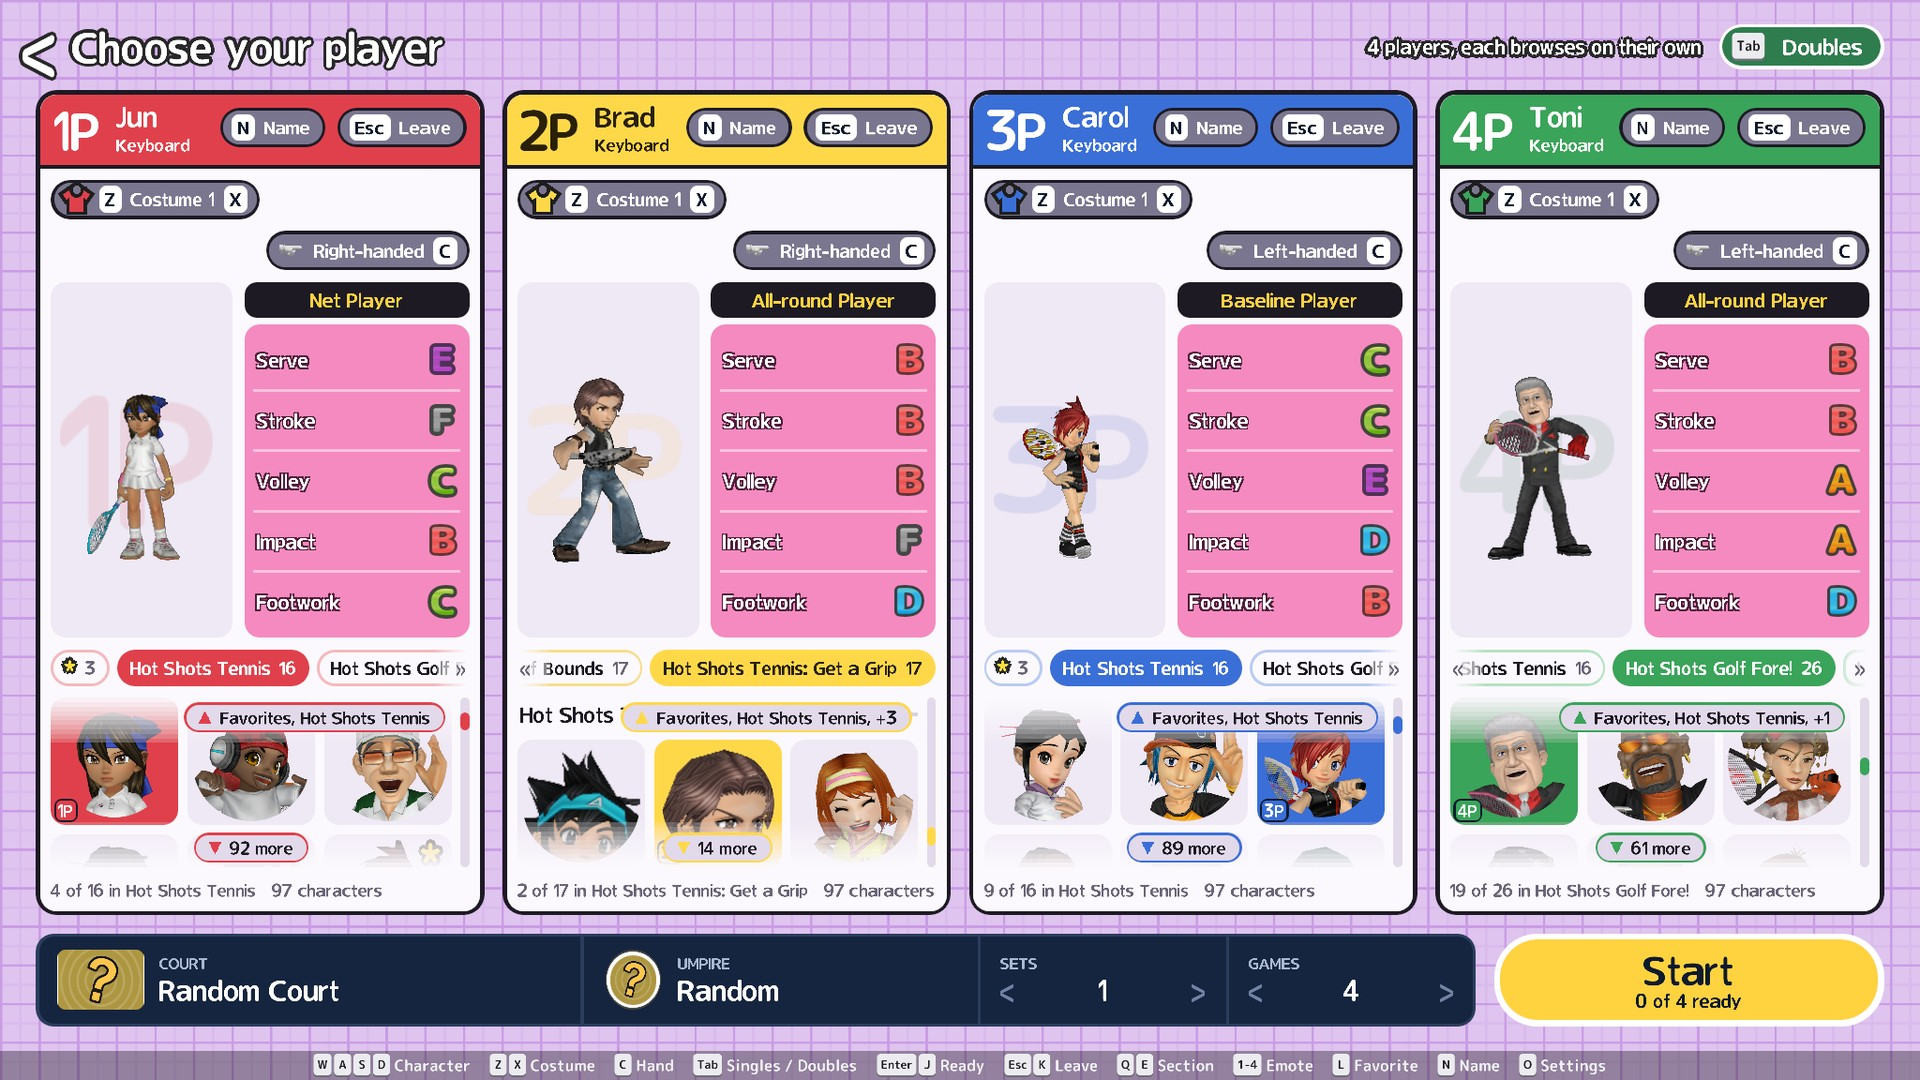
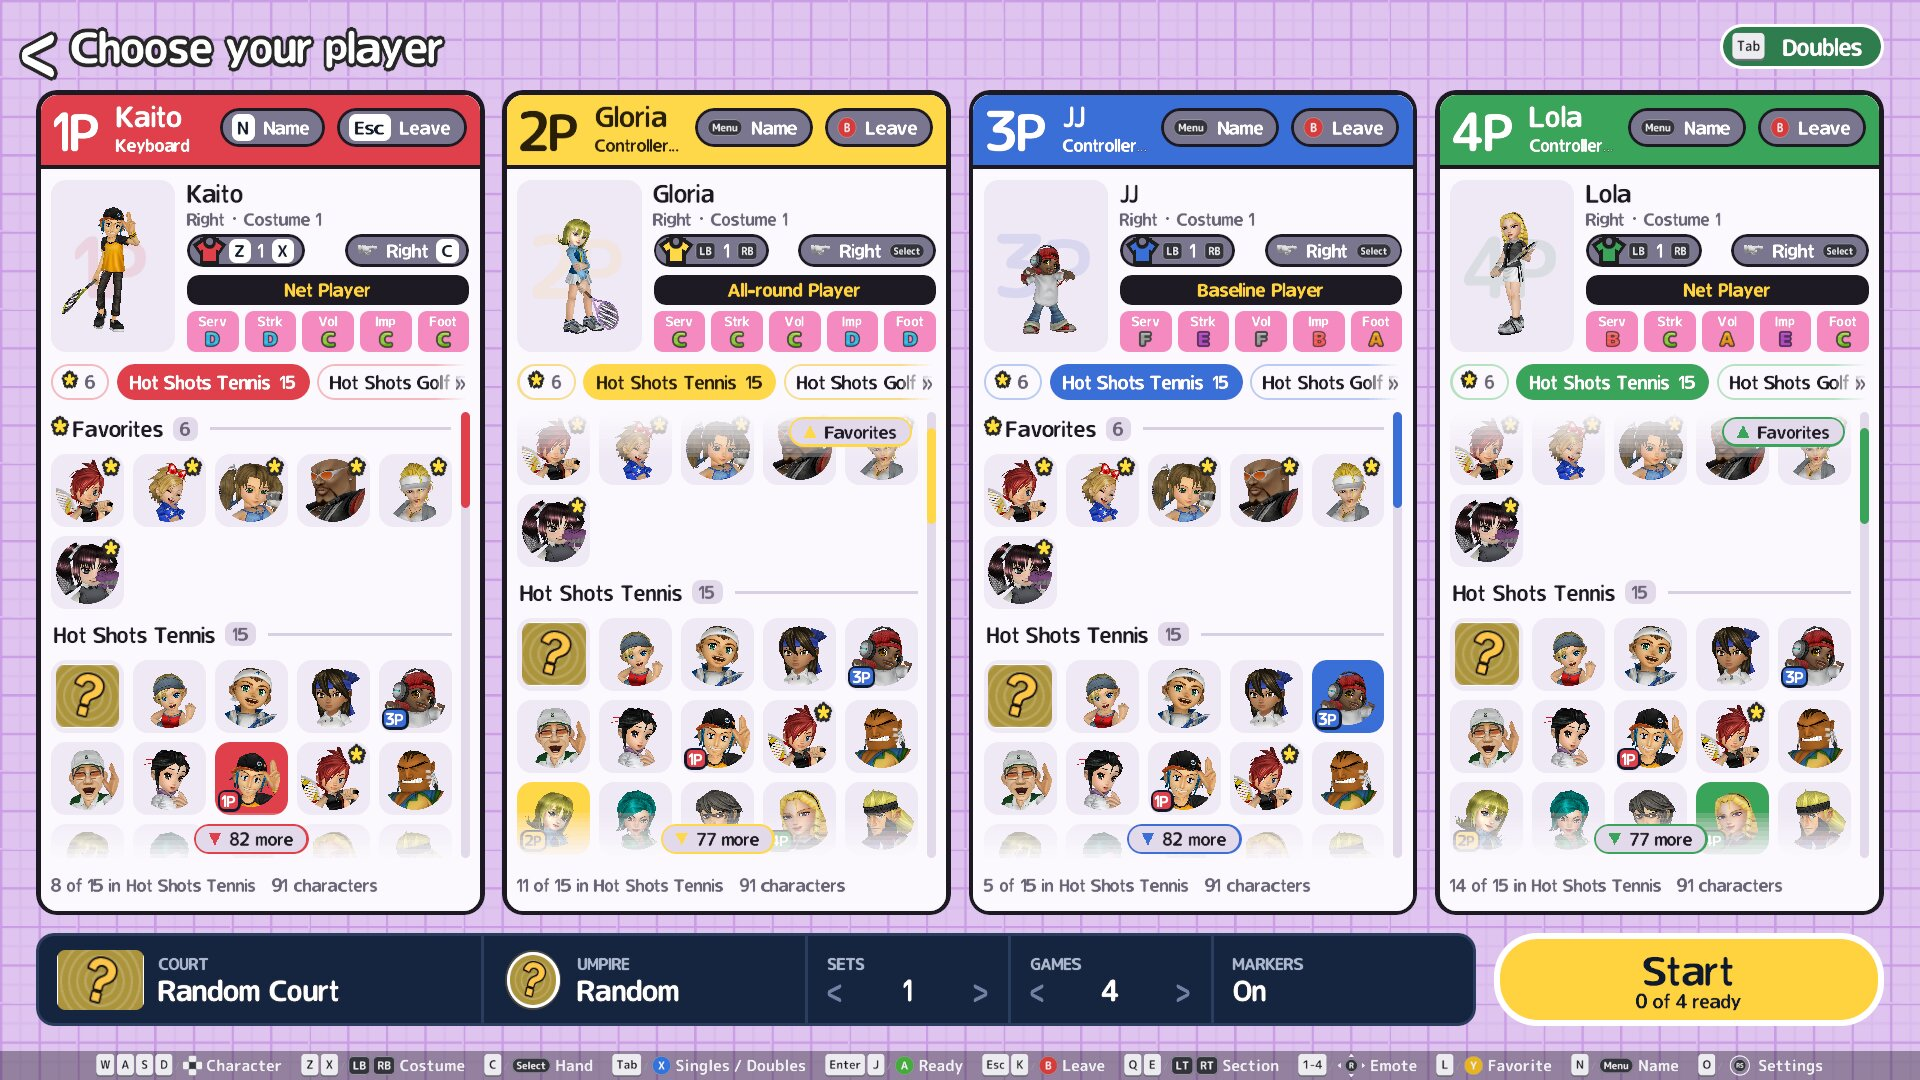
docs: screenshots retaken with the current menus (title, main, four-player select, courts, umpires, lobby, store) and match HUD (rally and serve shots with the HUD on)

diff --git a/research/journal/2026-10-20-m137-refresh-screenshots/README-FINAL.md b/research/journal/2026-10-20-m137-refresh-screenshots/README-FINAL.md
@@ -1,0 +1,38 @@
+# M137 — refresh the UI screenshots
+
+## What changed
+Retaken with the current build (v1.2.5, 0ccb3fb8), same file names so README and the site (`tools/web.sh` copies
+`docs/screenshots/*.jpg` to `web/shots/`) pick them up unchanged. 1920×1080, JPEG q85, metadata stripped.
+
+- Menus: `menu-main`, `menu-chars` (four players, one column each), `menu-courts` (mod courts), `menu-umpires` (mod
+  umpires), `menu-lobby` (online lobby with a computer player), `menu-browsemods` (the real store listing, with
+  thumbnails).
+- New: `menu-title.jpg`, the title/splash screen (Press Enter over the blurred court). README's table now opens the
+  menu rows with it; its last row pairs the store with `mod-amusement.jpg` (already in the folder, unused until now).
+- Match with the HUD on (M98's were HUD-off): `rally-grass` (doubles, grass: timing balloon, power-shot trail, mph),
+  `serve` (doubles, grass: score panel, team names, COM levels, sets/games), `rally-autumn` (singles, autumn: power
+  shot, balloon, mph).
+
+## How
+All files in `context/m137/`. `disc/` is a copy of the 2026-10-16 menu-shot folder (symlinks to the main checkout's
+disc, mods, store cache; its own `settings.txt`: upscaled textures + hst-hd pack, high shadows, 4× AA, menu size Auto)
+so the slot's low-quality `settings.txt` (menu size 50, render scale 67) isn't used.
+- `menu.sh OUT SCREEN AT`: one `HST_MENU` screen through `tools/shot.sh` at `HST_SIZE="1200 675"` (1920×1080).
+  Screens: `press`, `main`, `roster4`, `courts-mod`, `umpires-mod`, `lobby-bot`; the store is `main-mods` + Enter
+  (`HST_KEYS`), shot at 45 s so the listing and thumbnails are in. The character select needs ~30 s for every face
+  to be cut (earlier shots show empty cells).
+- `burst.sh DIR FROM TO STEP args`: one CPU-vs-CPU `--play` match, a frame a second; `r1` grass doubles (`--stage 5
+  --court 5 --chars 0,1`), `r2` autumn singles (`--stage 11 --court 11 --chars 2,3 --singles`). Picked by eye from
+  the contact sheets.
+
+## Not verified / not 1:1
+- Not compared to the original: these are our own menus and renderer (front end/rendering, no proof needed).
+- Not retaken: `hero`, `cast`, `celebrate-*`, `closeup-*`, `mod-castle`, `mod-character`, `mod-amusement`, `phone`.
+  They are HUD-off cutaway/celebration close-ups with no menu or HUD in them, so the task (menus and match HUD)
+  doesn't change them.
+- The match shots are CPU vs CPU, so the HUD shows COM markers/levels rather than 1P/2P.
+- `menu-lobby` is the `lobby-bot` sample screen (made-up peers "Sunny Day"/"ACE-42"), as before; no real online
+  session was opened.
+- The main menu's "New in the store" column doesn't show at the Auto menu size in 1920×1080 (it needs a wider
+  window); left as the game draws it.
+- The site was not opened in a browser; only the README table changed, and every path in it exists.

diff --git a/plan/TODO.md b/plan/TODO.md
@@ -19,7 +19,6 @@ index out of bounds: the len is 0 but the index is 0"
 - [ ] **B593** Mods browser footer to the top (user 2026-10-20): move the footer's row (Refresh/Download all words, pills, Upload, status) from the bottom to just under the kind tabs/characters strip at the top, still visually separate (its own rule/row), so it's reachable from the controller without scrolling past every tile; fix the cursor order to match (main_menu/mods_screen/grid.rs: footer, layout, Browse moves).
 - [ ] **M136** Mod downloads/uploads in progress shown on every menu screen (user 2026-10-20): a progress indicator in the upper middle of the screen (queue count, current item, for downloads and uploads alike) stays visible wherever you are in the menus; when the queue empties, a prompt offers to restart so the new mods load.
 - [ ] **B588** Online lobby asks to download mods both players already have (user 2026-10-20): joining a lobby prompted a download though both sides had the mod, and the downloaded/has-it icon never showed even after downloading (mods_online.rs, handshake.rs). Assumed: the have-check compares the wrong key (version/hash/id).
-- [ ] **M137** Refresh the UI screenshots (user 2026-10-20): retake docs/screenshots/ (README + website) with the current menus and match HUD.
 - [ ] **B589** Random characters still have no baked mod images (user 2026-10-20, after B571): a modded character picked by Random shows no baked roster/face image. Bake it the same way store-downloaded ones are.
 - [ ] **B590** Mobile web app: auto aspect still stretches under the Dynamic Island (user 2026-10-20): in landscape the picture runs past the notch/island. Honour env(safe-area-inset-*) in the web shell (web.rs / the page's viewport-fit) so the game area stays inside the safe area.
 - [ ] **P64** Web on Safari loads for a long time (user 2026-10-20), apparently on the local random characters step: profile the startup in Safari and make picking/preparing local random characters cheap (lazy, or off the load path).

diff --git a/README.md b/README.md
@@ -22,11 +22,12 @@ Taken from the remaster running on a retail disc (the art comes from the disc; n
 | | |
 |---|---|
 | ![A rally on a grass court](docs/screenshots/rally-grass.jpg) | ![A rally on an autumn court](docs/screenshots/rally-autumn.jpg) |
-| ![Serving](docs/screenshots/serve.jpg) | ![Celebrating at sunset on the river court](docs/screenshots/closeup-sunset.jpg) |
+| ![Serving in doubles, with the score panel up](docs/screenshots/serve.jpg) | ![Celebrating at sunset on the river court](docs/screenshots/closeup-sunset.jpg) |
 | ![A mod character on a mod court](docs/screenshots/mod-castle.jpg) | ![A mod character](docs/screenshots/mod-character.jpg) |
-| ![Main menu](docs/screenshots/menu-main.jpg) | ![Character selection with mod characters](docs/screenshots/menu-chars.jpg) |
-| ![Court selection with mod courts](docs/screenshots/menu-courts.jpg) | ![Umpire selection with mod umpires](docs/screenshots/menu-umpires.jpg) |
-| ![Online lobby](docs/screenshots/menu-lobby.jpg) | ![Mod store](docs/screenshots/menu-browsemods.jpg) |
+| ![Title screen](docs/screenshots/menu-title.jpg) | ![Main menu](docs/screenshots/menu-main.jpg) |
+| ![Character selection with mod characters](docs/screenshots/menu-chars.jpg) | ![Court selection with mod courts](docs/screenshots/menu-courts.jpg) |
+| ![Umpire selection with mod umpires](docs/screenshots/menu-umpires.jpg) | ![Online lobby](docs/screenshots/menu-lobby.jpg) |
+| ![Mod store](docs/screenshots/menu-browsemods.jpg) | ![A mod court](docs/screenshots/mod-amusement.jpg) |
 
 ## You must provide the game disc
 

diff --git a/plan/DONE.md b/plan/DONE.md
@@ -864,6 +864,7 @@ Oldest entries first (full text as they were in the old TODO.md):
 - [x] **M135** Update mods (user 2026-10-20): when the store has a newer mod.json version than the installed copy, show an Update button on that mod, plus a prominent 'Update all' button on the Mods page and on the home screen (shown when any update is waiting) that queues every update (modstore.rs, main_menu/mods_screen/, main_menu).
 - [x] **B587** Mod store Update view shows wrong counts (user 2026-10-20): its sections say e.g. 'Characters 77' when 0 need updating; each section's count (and list) must show only the mods with an update.
 - [x] **B586** Clap emotes (user 2026-10-20): hide the racket while a character claps, and play a clap sound: look in each character's own game (disc and the mods' source games) for the clap SFX it uses, and play that with the emote (play/emote.rs).
+- [x] **M137** Refresh the UI screenshots (user 2026-10-20): retake docs/screenshots/ (README + website) with the current menus and match HUD.
 
 
 ### Shots
